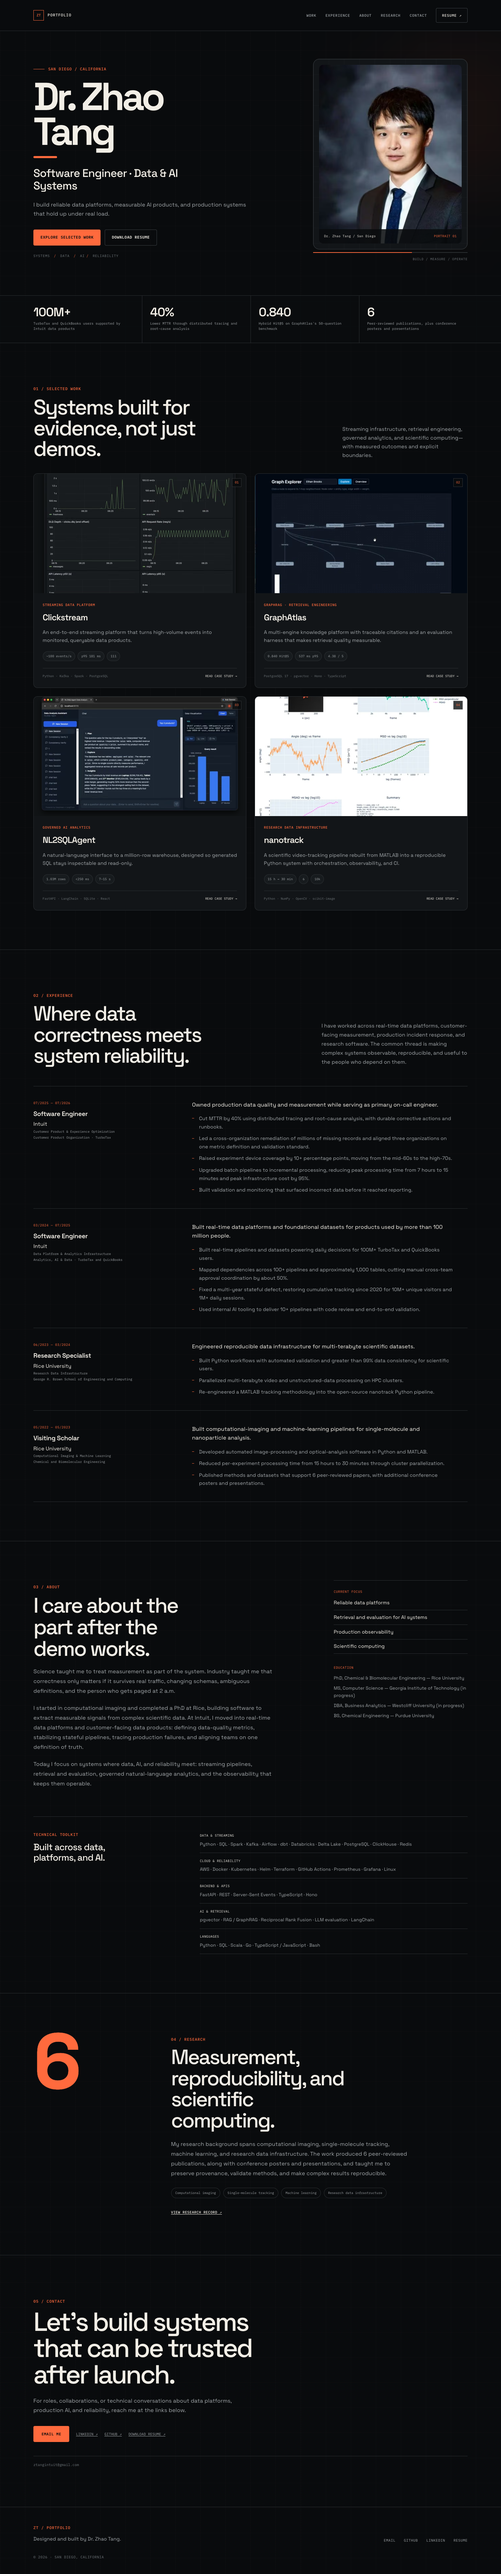
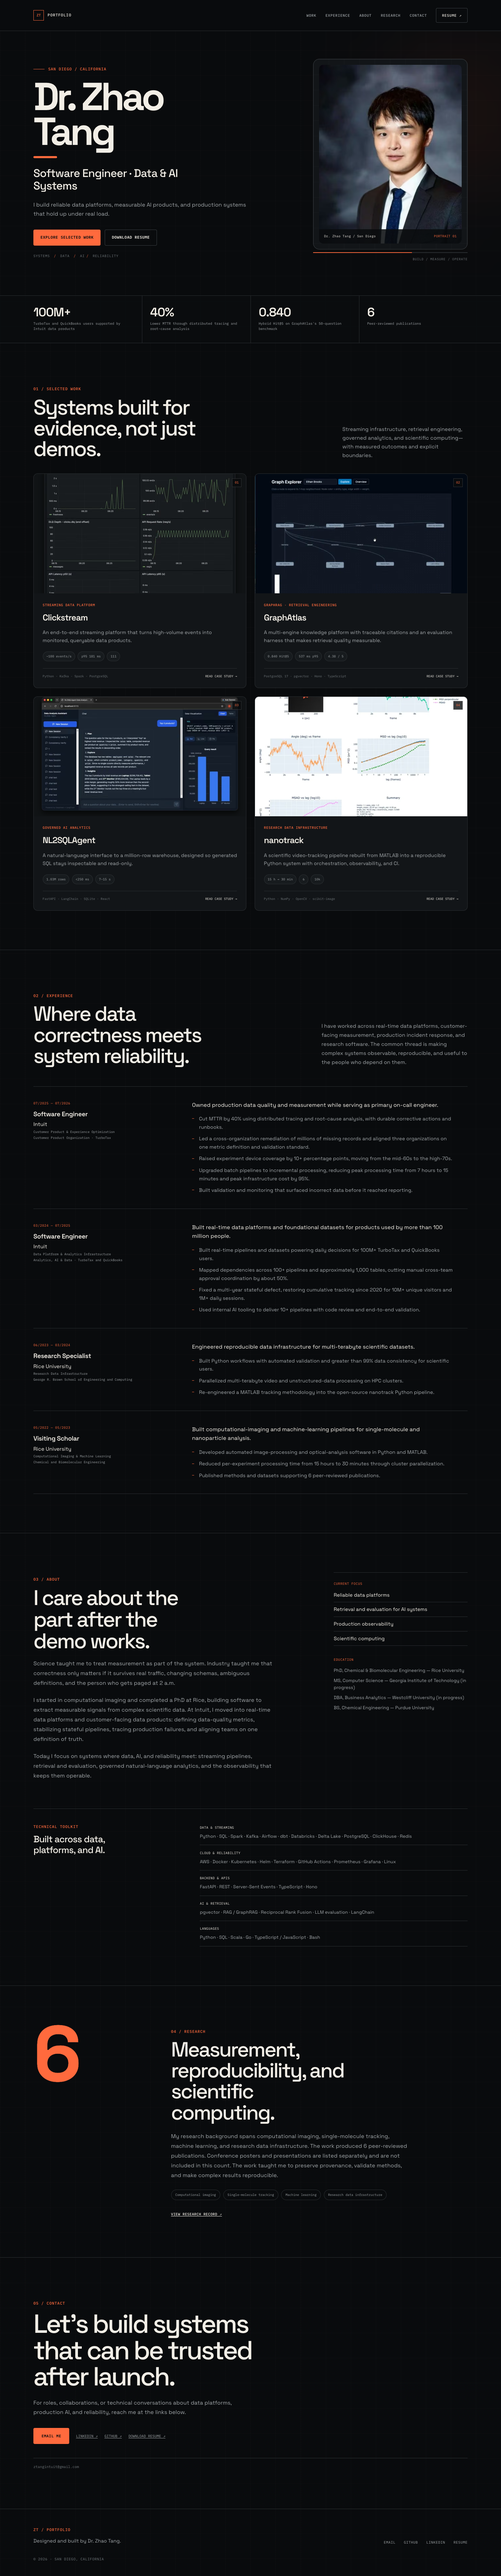
ZHA-199: fix(content): clarify peer-reviewed publication count

diff --git a/src/data/profile.ts b/src/data/profile.ts
@@ -55,7 +55,7 @@ export const experience = [
     bullets: [
       "Developed automated image-processing and optical-analysis software in Python and MATLAB.",
       "Reduced per-experiment processing time from 15 hours to 30 minutes through cluster parallelization.",
-      "Published methods and datasets that support 6 peer-reviewed papers, with additional conference posters and presentations.",
+      "Published methods and datasets supporting 6 peer-reviewed publications.",
     ],
   },
 ] as const;

diff --git a/design/generate_mockups.py b/design/generate_mockups.py
@@ -388,7 +388,7 @@ def draw_proof_strip(canvas: Canvas, mobile=False):
             ("100M+", "users supported"),
             ("40%", "lower MTTR"),
             ("0.840", "Hybrid Hit@5"),
-            ("12", "publications"),
+            ("6", "peer-reviewed publications"),
         ]
         for index, (value, label) in enumerate(metrics):
             col = index % 2
@@ -404,7 +404,7 @@ def draw_proof_strip(canvas: Canvas, mobile=False):
         ("100M+", "USERS SUPPORTED BY INTUIT DATA PRODUCTS"),
         ("40%", "LOWER MTTR THROUGH TRACING AND RCA"),
         ("0.840", "HYBRID HIT@5 / GRAPHATLAS BENCHMARK"),
-        ("6", "PUBLICATIONS + POSTERS / PRESENTATIONS"),
+        ("6", "PEER-REVIEWED PUBLICATIONS"),
     ]
     for index, (value, label) in enumerate(metrics):
         x = 96 + index * 312

diff --git a/docs/CONTENT.md b/docs/CONTENT.md
@@ -92,7 +92,7 @@ Secondary CTA:
 | `100M+` | TurboTax and QuickBooks users supported by Intuit data products |
 | `40%` | Lower MTTR through distributed tracing and root-cause analysis |
 | `0.840` | Hybrid Hit@5 on GraphAtlas's 50-question benchmark |
-| `6` | Peer-reviewed publications, plus conference posters and presentations |
+| `6` | Peer-reviewed publications |
 
 ### Selected work introduction
 
@@ -377,7 +377,7 @@ Boundary:
 #### Evidence
 
 - `Per-experiment processing time reduced from 15 hours to 30 minutes in the original cluster workflow.`
-- `Methods and datasets support 6 peer-reviewed publications, plus additional conference posters and presentations.`
+- `Methods and datasets support 6 peer-reviewed publications. Conference posters and presentations are separate and are not included in this count.`
 - `Generated and validated a 10,000-frame synthetic single-molecule run with anisotropic diffusion.`
 - `Automated validation reached greater than 99% data consistency in the research workflow.`
 
@@ -486,7 +486,7 @@ Bullets:
 
 - `Developed automated image-processing and optical-analysis software in Python and MATLAB.`
 - `Reduced per-experiment processing time from 15 hours to 30 minutes through cluster parallelization.`
-- `Published methods and datasets that support 6 peer-reviewed papers, with additional conference posters and presentations.`
+- `Published methods and datasets supporting 6 peer-reviewed publications.`
 
 ## About
 
@@ -554,7 +554,7 @@ Heading:
 
 Copy:
 
-`My research background spans computational imaging, single-molecule tracking, machine learning, and research data infrastructure. The work produced 6 peer-reviewed publications, along with conference posters and presentations, and taught me to preserve provenance, validate methods, and make complex results reproducible.`
+`My research background spans computational imaging, single-molecule tracking, machine learning, and research data infrastructure. The work produced 6 peer-reviewed publications. Conference posters and presentations are listed separately and are not included in this count. The work taught me to preserve provenance, validate methods, and make complex results reproducible.`
 
 Research record:
 
@@ -607,7 +607,7 @@ number, add it here first with evidence.
 | F05 | Lineage scale | `100+` pipelines; approximately `1,000` tables; `~50%` less manual coordination | Data Engineer resume, Data Platform role |
 | F06 | Stateful data repair | tracking since 2020; `10M+` unique visitors; `1M+` daily sessions | Data Engineer resume, Data Platform role |
 | F07 | Batch improvement | `7 h → 15 min`; `95%` lower peak infrastructure cost | ResMed resume, Performance & Cost |
-| F08 | Publications | `6` peer-reviewed publications; additional conference posters/presentations | Google Scholar profile: `https://scholar.google.com/citations?user=WlAErpUAAAAJ&hl=en` |
+| F08 | Publications | `6` peer-reviewed publications; posters/presentations are separate and not included in the count | Google Scholar profile: `https://scholar.google.com/citations?user=WlAErpUAAAAJ&hl=en` |
 | F09 | Research consistency | greater than `99%` data consistency | Data Engineer resume, Research Specialist role |
 | F10 | Research speedup | `15 h → 30 min` per experiment | Nanoparticle README; both resumes |
 | F11 | Clickstream producer | `~100` events/s; `0` failed events in recorded run | `/Users/zhaotang/projects/clickstream/README.md`, Phase 1 metrics |
@@ -630,6 +630,9 @@ number, add it here first with evidence.
 - Do not publish the phone number.
 - Do not publish the legacy Rice email address from older resume versions.
 - Do not call Clickstream, GraphAtlas, or NL2SQLAgent production systems.
+- Do not phrase the publication count as `6 publications plus posters and
+  presentations`. State exactly `6 peer-reviewed publications`; if those
+  activities are mentioned, say they are separate and excluded from the count.
 - Do not imply that synthetic corporate entities or benchmark questions are real customer data.
 - Do not say the research publications were produced by the 2026 nanotrack Python implementation.
 - Do not state that the portfolio site is “available for opportunities” unless Zhao Tang explicitly adds that status.
@@ -642,5 +645,7 @@ number, add it here first with evidence.
 - [x] Positioning matches the approved `Data & AI Systems` direction.
 - [x] Contact details match approved values.
 - [x] Every public metric maps to F01–F24.
+- [x] Publication copy states exactly 6 peer-reviewed publications and excludes
+  posters/presentations from the count.
 - [x] Portfolio/demo boundaries are explicit.
 - [x] CTA labels are consistent and short.

diff --git a/qa/REPORT.md b/qa/REPORT.md
@@ -1,6 +1,6 @@
 # Portfolio v2 QA Report
 
-Date: 2026-10-24
+Date: 2026-10-24; publication-copy follow-up: 2026-10-26
 
 Preview URL: `http://127.0.0.1:4321`
 
@@ -93,8 +93,9 @@ Desktop metrics:
 ## Manual content review
 
 - Positioning is consistently `Software Engineer · Data & AI Systems`.
-- Publication wording is consistently 6 peer-reviewed publications, with posters
-  and presentations excluded from the count.
+- The homepage presents `6` under `Peer-reviewed publications` only. Research
+  copy explicitly notes that posters and presentations are separate and excluded
+  from that count.
 - Public resume is the sanitized two-page Data & AI Systems version.
 - Clickstream, GraphAtlas, and NL2SQLAgent remain clearly identified as
   portfolio systems rather than production traffic.
@@ -104,7 +105,8 @@ Desktop metrics:
 
 ## Known issues and boundaries
 
-- GitHub Pages still serves the legacy site until `ZHA-197`.
+- The publication-count clarification awaits review and deployment; production
+  continues to show the previous wording until that release completes.
 - The independent nanotrack README publication correction remains tracked in
   `ZHA-198` and is not part of this website PR.
 - No custom domain is in scope.
@@ -123,5 +125,6 @@ Desktop metrics:
 - [x] Privacy and publication-fact review
 - [x] Lighthouse targets
 - [ ] Zhao Tang reviews the preview
-- [ ] Platform ticket `ZHA-196` is complete
-- [ ] Production release in `ZHA-197` is manually approved
+- [x] Platform ticket `ZHA-196` is complete
+- [x] Production release in `ZHA-197` is approved and deployed
+- [ ] Publication-count clarification is reviewed and deployed
